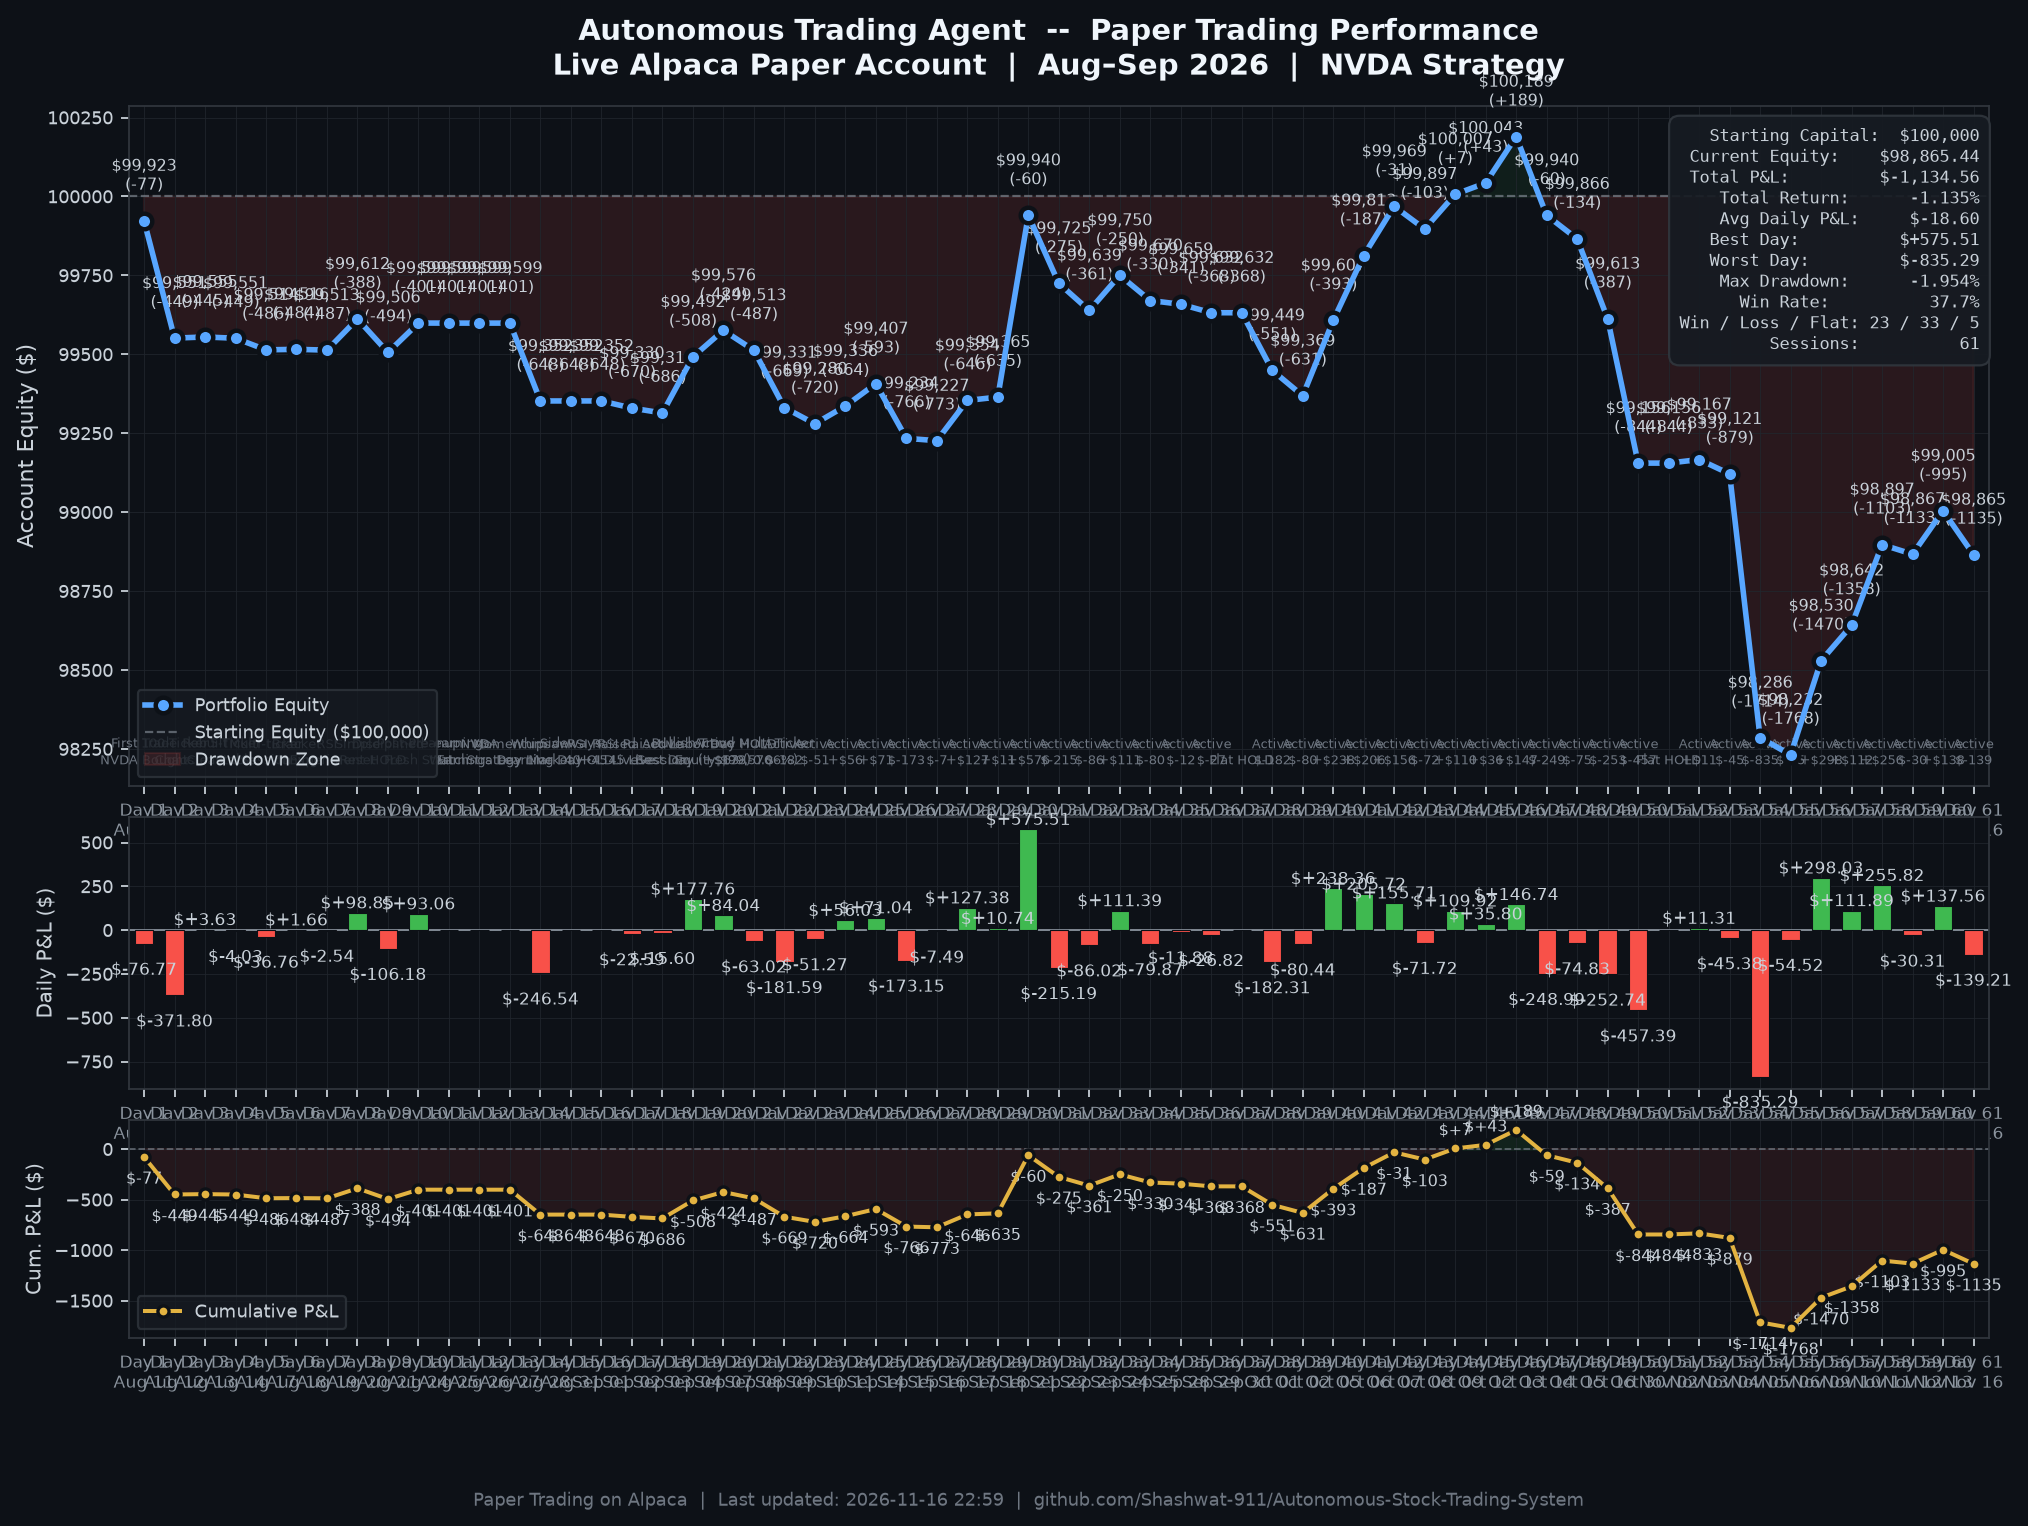
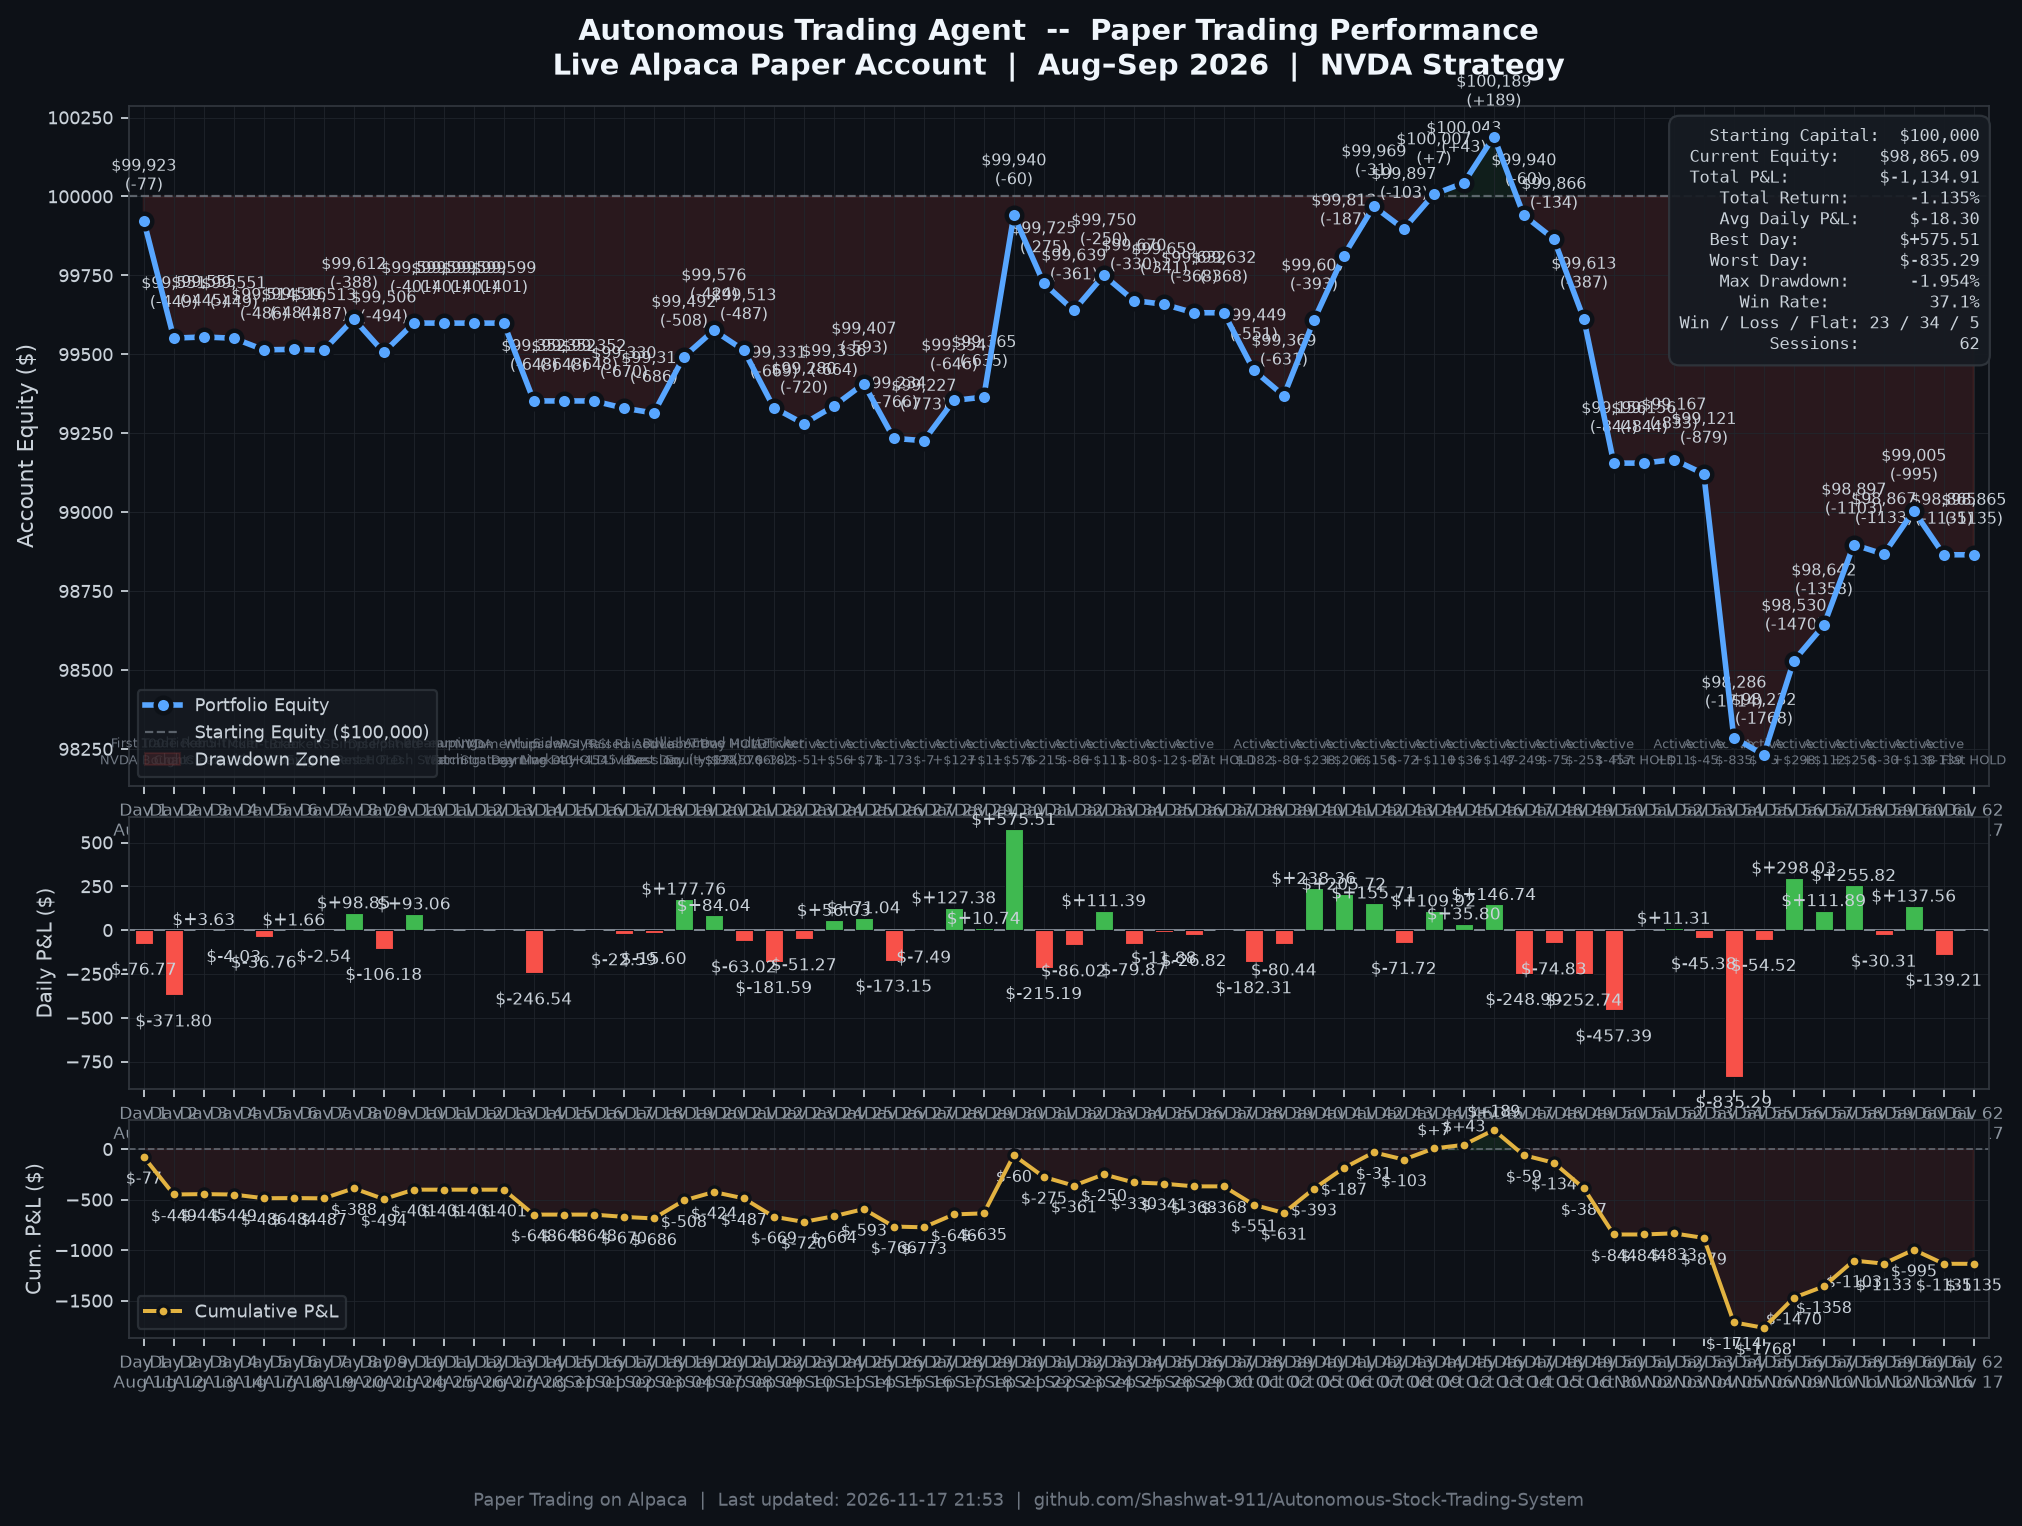
auto(session): 2026-11-17 | equity=$98,865 | return=-1.135%

diff --git a/README.md b/README.md
@@ -47,7 +47,7 @@ The automated trading bot is deployed in the cloud on Render with continuous mon
 
 > **Paper Trading on Alpaca** | Started: Aug 11, 2026 | Initial Capital: $100,000.00 | Universe: NVDA, TSLA, META, MSFT, AAPL (5-Stock High-Momentum Universe)
 
-![Daily P&L Chart](outputs/daily_pnl_chart.png?v=20261116)
+![Daily P&L Chart](outputs/daily_pnl_chart.png?v=20261117)
 
 *Chart auto-generated from live Alpaca Portfolio History API and verified session telemetry via [`scripts/generate_pnl_chart.py`](scripts/generate_pnl_chart.py).*
 
@@ -116,8 +116,9 @@ The automated trading bot is deployed in the cloud on Render with continuous mon
 | **Day 59** | Nov 12 (Thu) | $98,867.09 | -$30.31 | -$1132.91 | -1.133% | Active Session (-$30.31) |
 | **Day 60** | Nov 13 (Fri) | $99,004.65 | **+$137.56** | -$995.35 | -0.995% | Profitable Session (+$137.56) |
 | **Day 61** | Nov 16 (Mon) | $98,865.44 | -$139.21 | -$1134.56 | -1.135% | Loss Session (-$139.21) |
+| **Day 62** | Nov 17 (Tue) | $98,865.09 | -$0.35 | -$1134.91 | -1.135% | Flat Session - Disciplined HOLD |
 
-> **Current Equity**: $98,865.44 | **Total P&L**: $-1,134.56 | **Best Day**: $+575.51 | **Win Rate**: 37.7% (23W / 33L / 5 Flat) | **Max Drawdown**: -1.768% | **Sessions**: 61
+> **Current Equity**: $98,865.09 | **Total P&L**: $-1,134.91 | **Best Day**: $+575.51 | **Win Rate**: 37.1% (23W / 34L / 5 Flat) | **Max Drawdown**: -1.768% | **Sessions**: 62
 ---
 
 ## System Architecture
